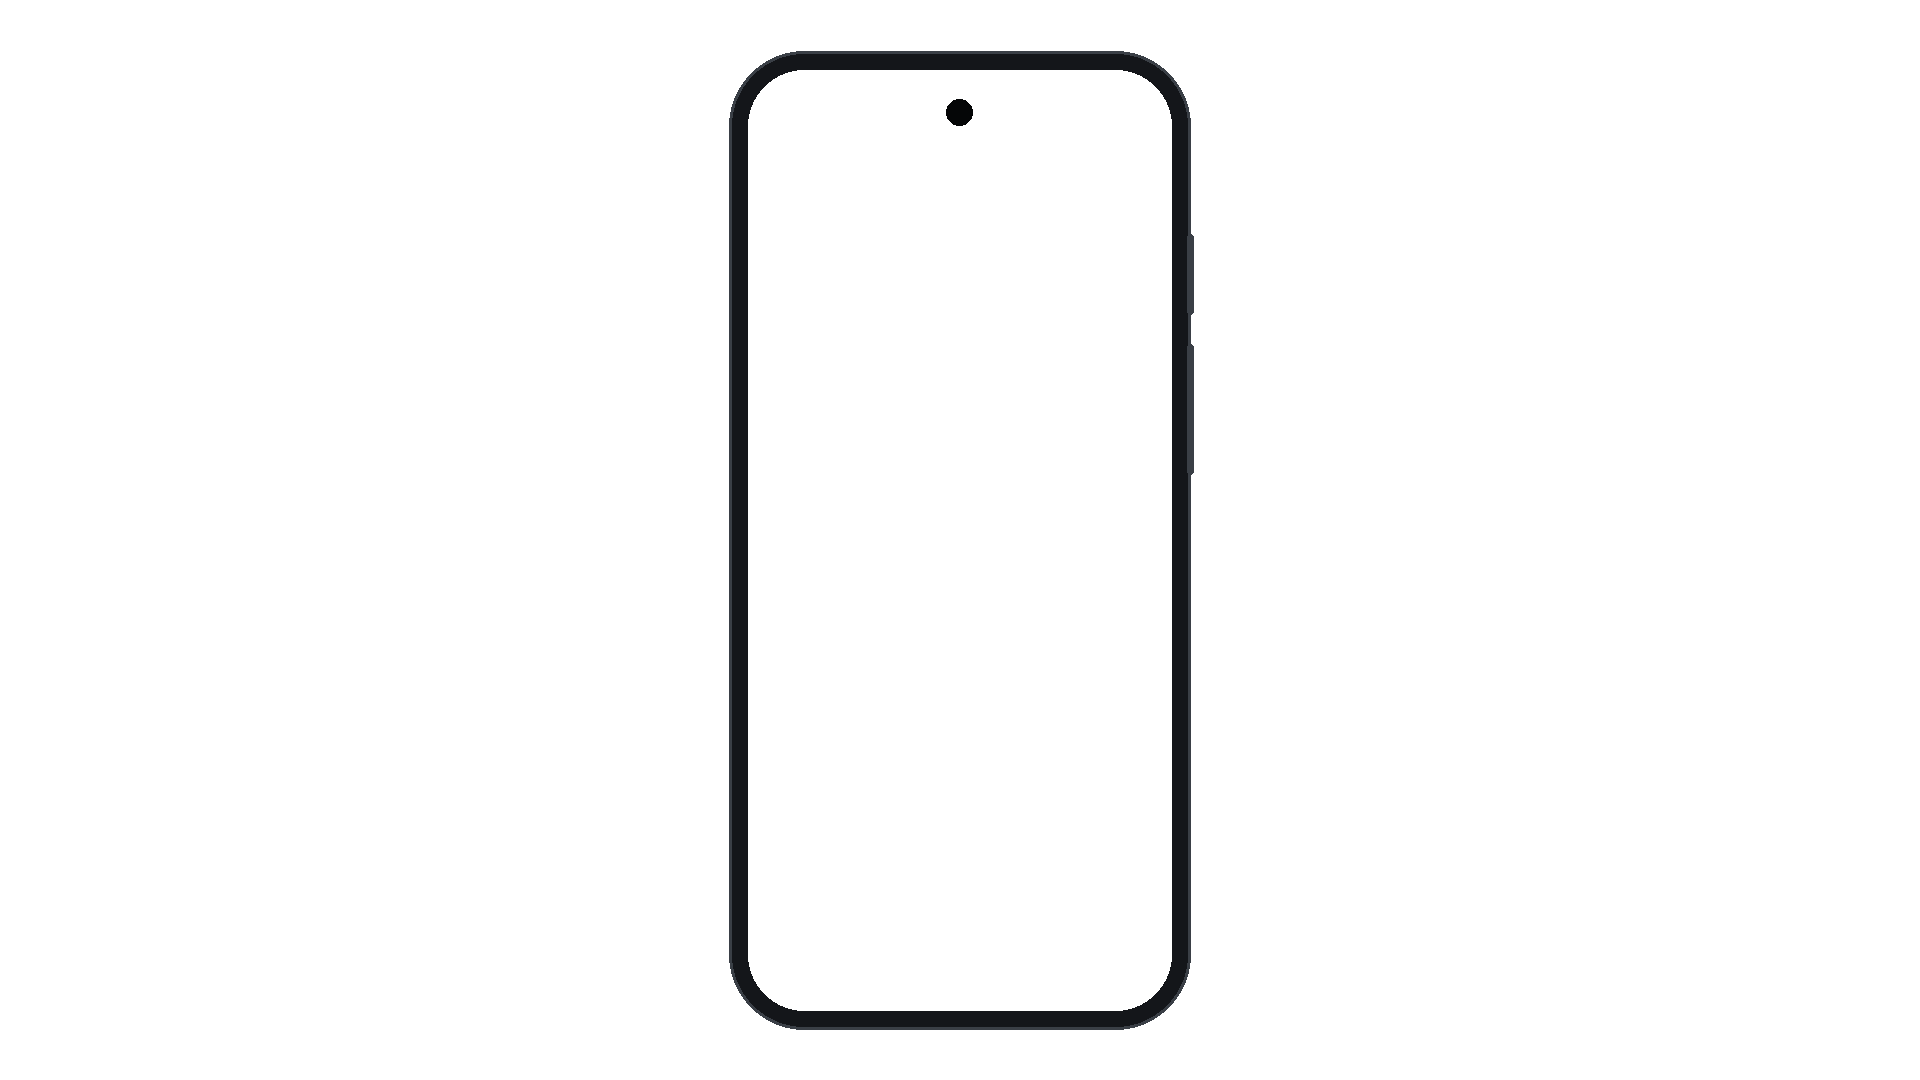
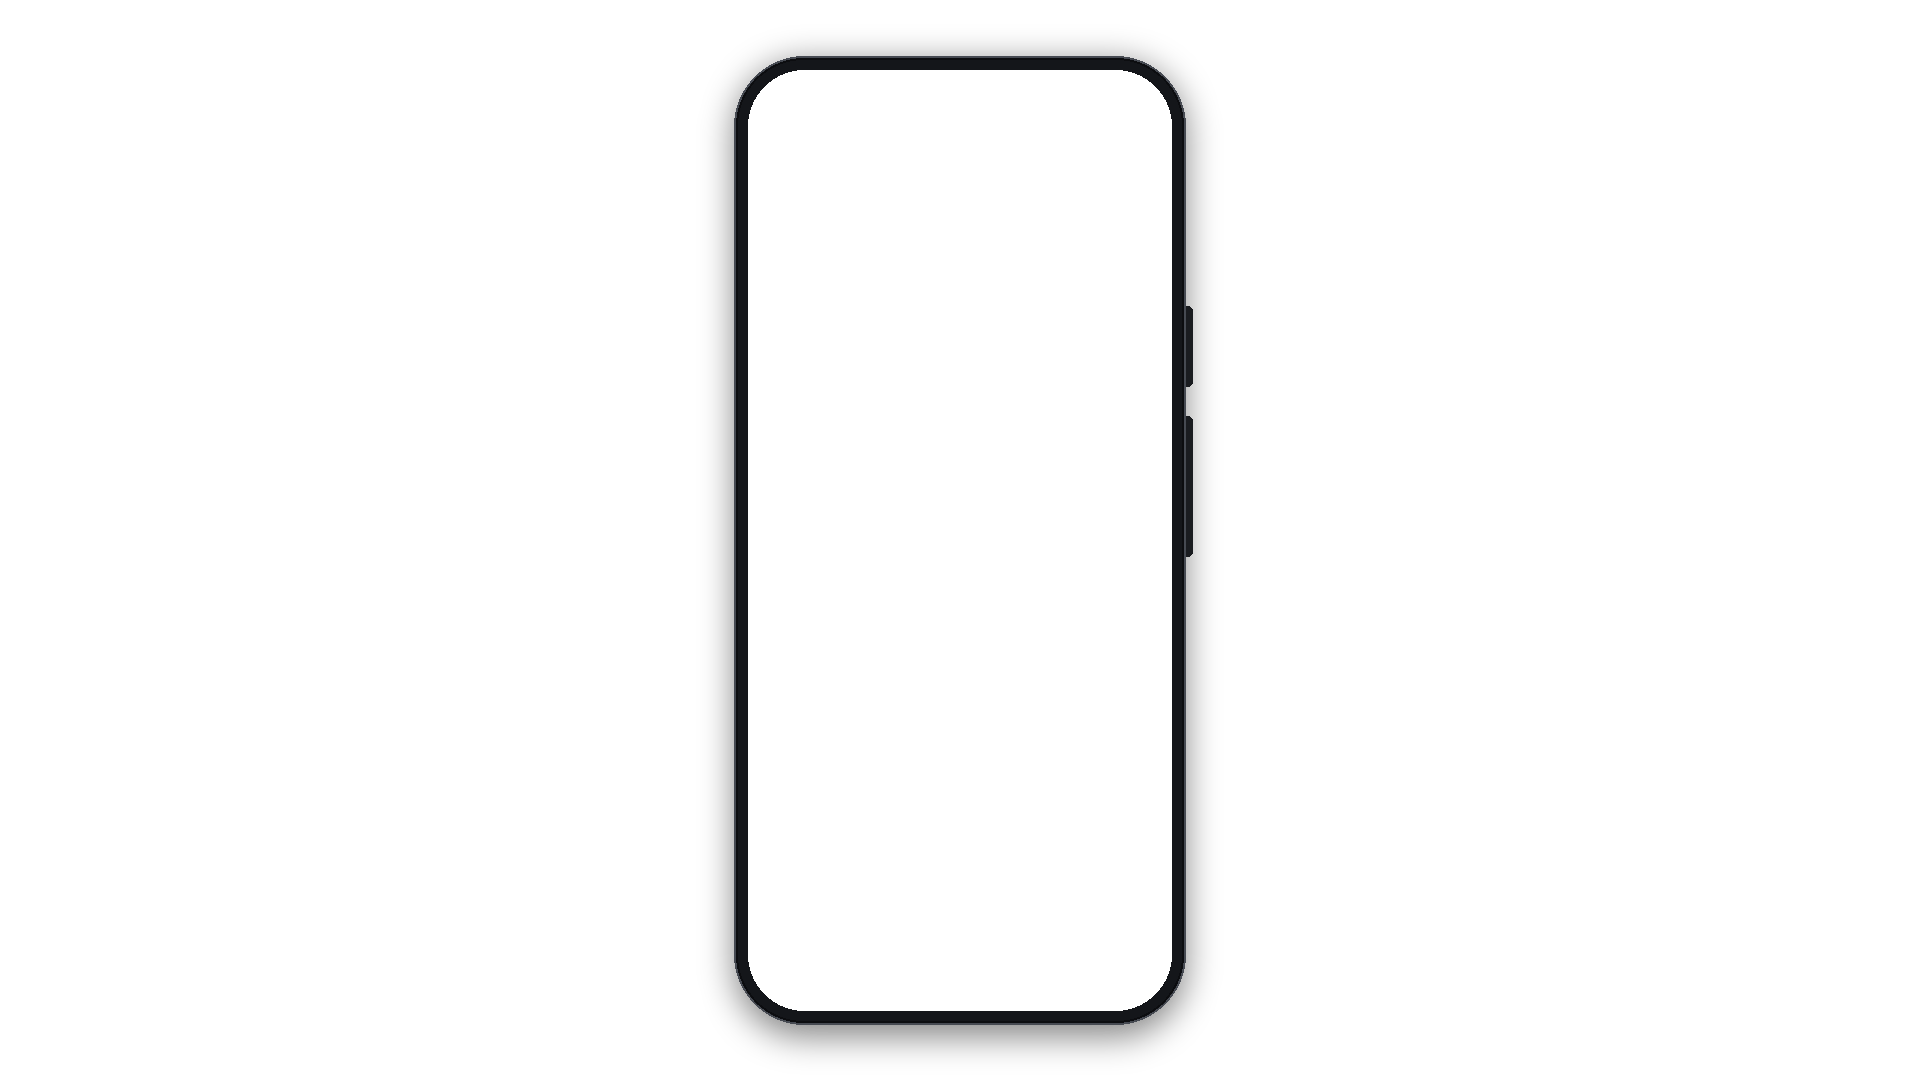
showcase composite: fix terminal chrome, 1080p output, modern notch-less phone frame
- Terminal window chrome was invisible: fed as a single still frame but with a
  fade=t=in filter, which pinned that one frame to alpha 0 for the whole video.
  Loop the chrome input so the fade renders (terminal now reads as an app window).
- Output 1080p (was downscaling to 720p) + CRF 32 — phone source is 1080x2400 so
  the framed phone is now sharp instead of soft.
- Regenerate frame-pixel8.png: modern matte Android body, no camera hole-punch,
  screen hole aligned to screen_rect.
- recompose.py: re-composite a demo from its kept workdir (no re-record) to
  iterate on composite/asset tweaks.

Changed region(s): [[0.375, 0.0611, 0.625, 0.9778], [0.4062, 0.0306, 0.5938, 0.0611], [0.4688, 0.0917, 0.5312, 0.1222]]

diff --git a/scripts/showcase/recompose.py b/scripts/showcase/recompose.py
@@ -1,0 +1,73 @@
+#!/usr/bin/env python3
+"""Re-composite a demo from its kept workdir (.recordings/<demo>) WITHOUT
+re-recording — for iterating on composite / asset tweaks on already-captured
+footage. Reuses record_demo.composite() + the OCR gate + publish tail.
+
+    python3 scripts/showcase/recompose.py <demo> [phone_offset] [--publish]
+
+Default phone_offset 1.5 matches the recorder's ~1.5s screenrecord warmup.
+Without --publish the result stays in the workdir (safe for iteration).
+"""
+import json
+import shutil
+import subprocess
+import sys
+from pathlib import Path
+
+sys.path.insert(0, str(Path(__file__).resolve().parents[1]))  # scripts/
+import record_demo as R  # noqa: E402
+
+
+def main() -> None:
+    args = [a for a in sys.argv[1:] if not a.startswith("--")]
+    demo = args[0] if args else "langchain"
+    phone_offset = float(args[1]) if len(args) > 1 else 1.5
+    publish = "--publish" in sys.argv
+
+    workdir = R.REPO_ROOT / ".recordings" / demo
+    if not (workdir / "plan.json").exists():
+        R.die(f"no kept workdir at {workdir} (record with --keep-workdir first)")
+    spec = json.loads((workdir / "plan.json").read_text())["spec"]
+    patterns = R.load_forbidden()
+    term_mp4 = workdir / "terminal.mp4"
+    out_webm = workdir / "demo.webm"
+
+    print(f"[recompose] {demo} phone_offset={phone_offset} publish={publish}")
+    R.composite(spec, workdir, term_mp4, workdir / "phone.mp4",
+                phone_offset_s=phone_offset, out_webm=out_webm)
+
+    viol = R.ocr_gate(out_webm, workdir, patterns)
+    if viol:
+        for v in viol:
+            print(f"[recompose] FORBIDDEN {v}")
+        R.die(f"OCR gate FAILED ({len(viol)} hit) — not publishing")
+    print("[recompose] OCR gate clean")
+
+    size_mb = out_webm.stat().st_size / 1e6
+    if not publish:
+        print(f"[recompose] workdir only → {out_webm} ({size_mb:.1f} MB). "
+              f"Add --publish to copy into site/public/.")
+        return
+
+    out_dir = R.SHOWCASE_DIR / demo
+    out_dir.mkdir(parents=True, exist_ok=True)
+    shutil.copy2(out_webm, out_dir / "demo.webm")
+    intro_motion = R.BRAND_DIR / f"intro-{demo}-motion.mp4"
+    intro_dur = R.INTRO_S
+    if spec.get("layout") == "three_window" and intro_motion.exists():
+        p = subprocess.run(
+            ["ffprobe", "-v", "error", "-show_entries", "format=duration",
+             "-of", "default=nw=1:nk=1", str(intro_motion)],
+            capture_output=True, text=True)
+        intro_dur = float(p.stdout.strip() or R.INTRO_S)
+    hw = spec.get("highlight_window") or {}
+    poster_ss = intro_dur + float(hw.get("start_s", 2)) + 1.0
+    subprocess.run(["ffmpeg", "-y", "-ss", str(poster_ss), "-i",
+                    str(out_dir / "demo.webm"), "-frames:v", "1",
+                    str(out_dir / "poster.png")], check=True)
+    R.write_snippet(spec, out_dir / "snippet.py")
+    print(f"[recompose] PUBLISHED → {out_dir / 'demo.webm'} ({size_mb:.1f} MB)")
+
+
+if __name__ == "__main__":
+    main()

diff --git a/scripts/record_demo.py b/scripts/record_demo.py
@@ -653,7 +653,7 @@ def composite(spec: dict, workdir: Path, term_mp4: Path, phone_mp4: Path,
             f"format=yuv420p[content];"
             f"[0:v]scale={CANVAS_W}:{CANVAS_H},fps={FPS},format=yuv420p[intro];"
             f"[1:v]scale={CANVAS_W}:{CANVAS_H},fps={FPS},format=yuv420p[outro];"
-            f"[intro][content][outro]concat=n=3:v=1:a=0,scale=1280:720[out]"
+            f"[intro][content][outro]concat=n=3:v=1:a=0,scale=1920:1080[out]"
         )
         inputs = [
             "-loop", "1", "-t", str(INTRO_S), "-i", str(po_intro),   # [0]
@@ -666,7 +666,7 @@ def composite(spec: dict, workdir: Path, term_mp4: Path, phone_mp4: Path,
         if radius > 0:
             inputs += ["-loop", "1", "-t", str(content_s), "-i", str(phone_mask)]  # [6]
         run(["ffmpeg", "-y", *inputs, "-filter_complex", fc, "-map", "[out]",
-             "-c:v", "libvpx-vp9", "-crf", "41", "-b:v", "0",
+             "-c:v", "libvpx-vp9", "-crf", "32", "-b:v", "0",
              "-deadline", "good", "-cpu-used", "2", "-row-mt", "1", "-an",
              str(out_webm)], "phone-only composite render", heavy=True)
         return
@@ -754,7 +754,7 @@ def composite(spec: dict, workdir: Path, term_mp4: Path, phone_mp4: Path,
         + f"[0:v]scale={CANVAS_W}:{CANVAS_H},fps={FPS},format=yuv420p[intro];"
         f"[1:v]scale={CANVAS_W}:{CANVAS_H},fps={FPS},format=yuv420p[outro];"
         f"[intro][content][outro]concat=n=3:v=1:a=0,"
-        f"scale=1280:720[out]"
+        f"scale=1920:1080[out]"
     )
     inputs = [
         *(["-i", str(intro_motion)] if use_motion_intro
@@ -764,7 +764,10 @@ def composite(spec: dict, workdir: Path, term_mp4: Path, phone_mp4: Path,
         "-i", str(phone_mp4),
         "-i", str(frame_png),
         "-i", str(bgpng),
-        "-i", str(chrome),
+        # chrome is a STILL frame but gets a fade=t=in filter; without -loop it is
+        # a single frame that the fade collapses to alpha 0 (invisible whole video).
+        # Loop it across the content so the fade-in actually renders.
+        "-loop", "1", "-t", str(content_s), "-i", str(chrome),
         "-i", str(mascot_l),
     ]
     if code_pane:
@@ -773,7 +776,7 @@ def composite(spec: dict, workdir: Path, term_mp4: Path, phone_mp4: Path,
         inputs += ["-loop", "1", "-t", str(content_s), "-i", str(phone_mask)]  # [8]/[9]
     run(["ffmpeg", "-y", *inputs,
          "-filter_complex", fc, "-map", "[out]",
-         "-c:v", "libvpx-vp9", "-crf", "41", "-b:v", "0",
+         "-c:v", "libvpx-vp9", "-crf", "32", "-b:v", "0",
          "-deadline", "good", "-cpu-used", "2", "-row-mt", "1", "-an",
          str(out_webm)], "composite render", heavy=True)
 